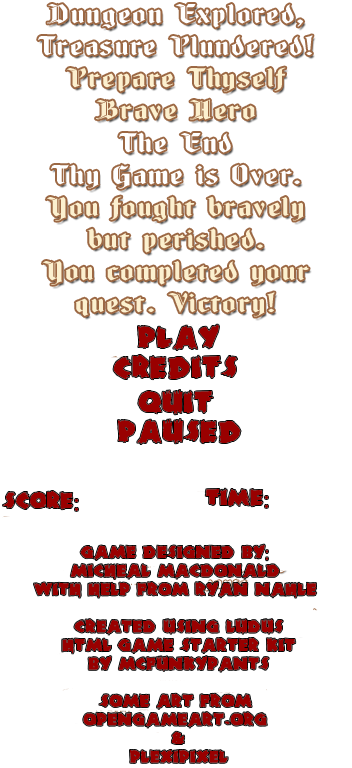
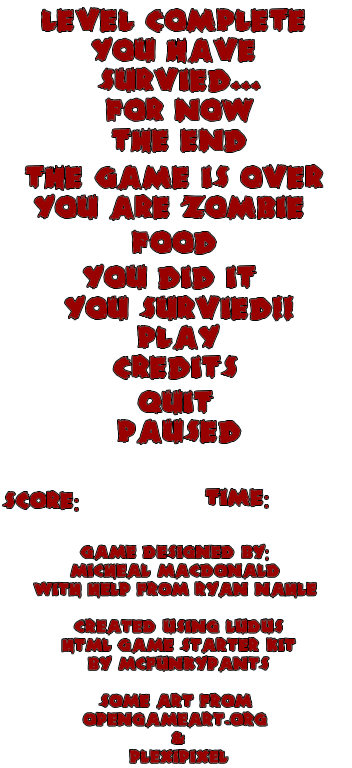
GUI Changes
Changed text and buttons
Buttons for jump and attach have been moved to the screens lower corners

Changed region(s): [[0.0625, 0.0, 0.9375, 0.4375], [0.5938, 0.75, 0.6875, 0.7812]]

diff --git a/game-media/level2.js b/game-media/level2.js
@@ -1,7 +1,7 @@
 var level2 = { "height":32,
  "layers":[
         {
-         "data":[0, 0, 0, 0, 0, 0, 0, 0, 0, 0, 0, 0, 0, 0, 0, 0, 0, 0, 0, 0, 0, 0, 0, 0, 0, 0, 0, 0, 0, 0, 0, 0, 0, 0, 0, 0, 0, 0, 0, 0, 0, 0, 0, 0, 0, 0, 0, 0, 0, 0, 0, 0, 0, 0, 0, 0, 0, 0, 0, 0, 0, 0, 0, 0, 0, 0, 0, 0, 0, 0, 0, 0, 0, 0, 0, 0, 0, 0, 0, 0, 0, 0, 0, 0, 0, 0, 0, 0, 0, 0, 0, 0, 0, 0, 0, 0, 0, 0, 0, 0, 0, 0, 0, 0, 0, 0, 0, 0, 0, 0, 0, 0, 0, 0, 0, 0, 0, 0, 0, 0, 0, 0, 0, 0, 0, 0, 0, 0, 0, 0, 0, 0, 0, 0, 0, 0, 0, 0, 0, 0, 0, 0, 0, 0, 0, 0, 0, 0, 0, 0, 0, 0, 0, 0, 0, 0, 0, 0, 0, 0, 0, 0, 0, 0, 0, 0, 0, 0, 0, 0, 0, 0, 0, 0, 0, 0, 0, 0, 0, 0, 0, 0, 0, 0, 0, 0, 0, 0, 0, 0, 0, 0, 0, 0, 0, 0, 0, 0, 0, 0, 0, 0, 0, 0, 0, 0, 0, 0, 0, 0, 0, 0, 0, 0, 0, 0, 0, 0, 0, 0, 0, 0, 0, 0, 0, 0, 0, 0, 0, 0, 0, 0, 0, 0, 0, 0, 0, 0, 0, 0, 0, 0, 0, 0, 0, 0, 0, 0, 0, 0, 0, 0, 0, 0, 0, 0, 0, 0, 0, 0, 0, 0, 0, 0, 0, 0, 0, 0, 0, 0, 0, 0, 0, 0, 0, 0, 0, 0, 0, 0, 0, 0, 0, 0, 0, 0, 0, 0, 0, 0, 0, 0, 0, 0, 0, 0, 0, 0, 0, 0, 0, 0, 0, 0, 0, 0, 0, 0, 0, 0, 0, 0, 0, 0, 0, 0, 0, 0, 0, 0, 0, 0, 0, 0, 0, 0, 0, 0, 0, 0, 0, 0, 0, 0, 0, 0, 0, 0, 0, 0, 0, 0, 0, 0, 0, 0, 0, 0, 0, 0, 0, 0, 0, 0, 0, 0, 0, 0, 0, 0, 0, 0, 0, 0, 0, 0, 0, 0, 0, 0, 0, 0, 0, 0, 0, 0, 0, 0, 0, 0, 0, 0, 0, 0, 0, 0, 0, 0, 0, 0, 0, 0, 0, 0, 0, 0, 0, 0, 0, 0, 0, 0, 0, 0, 0, 0, 0, 0, 0, 0, 0, 0, 0, 0, 0, 0, 0, 0, 0, 0, 0, 0, 0, 0, 0, 0, 0, 0, 0, 0, 0, 0, 0, 0, 0, 0, 0, 0, 0, 0, 0, 0, 0, 0, 0, 0, 0, 0, 0, 0, 0, 0, 0, 0, 0, 0, 0, 0, 0, 0, 0, 0, 0, 0, 0, 0, 0, 0, 0, 0, 0, 0, 0, 0, 0, 0, 0, 0, 0, 0, 0, 0, 0, 0, 0, 0, 0, 0, 0, 0, 0, 0, 0, 0, 0, 0, 0, 0, 0, 0, 0, 0, 0, 0, 0, 0, 0, 0, 0, 0, 0, 0, 0, 0, 0, 0, 0, 0, 0, 0, 0, 0, 0, 0, 0, 0, 0, 0, 0, 0, 0, 0, 0, 0, 0, 0, 0, 0, 0, 0, 0, 0, 0, 0, 0, 0, 0, 0, 0, 0, 0, 0, 0, 0, 0, 0, 0, 0, 0, 0, 0, 0, 0, 0, 0, 0, 0, 0, 0, 0, 0, 0, 0, 0, 0, 0, 0, 0, 0, 0, 0, 0, 0, 0, 0, 0, 0, 0, 0, 0, 0, 0, 0, 0, 0, 0, 0, 0, 0, 0, 0, 0, 0, 0, 0, 0, 0, 0, 0, 0, 0, 0, 0, 0, 0, 0, 0, 0, 0, 0, 0, 0, 0, 0, 0, 0, 0, 0, 0, 0, 0, 0, 0, 0, 0, 0, 0, 0, 0, 0, 0, 0, 0, 0, 0, 0, 0, 0, 0, 0, 0, 0, 0, 0, 0, 0, 0, 0, 0, 0, 0, 0, 0, 0, 0, 0, 0, 0, 0, 0, 0, 0, 0, 0, 0, 0, 0, 0, 0, 0, 0, 0, 0, 0, 0, 0, 0, 0, 0, 0, 0, 0, 0, 0, 0, 0, 0, 0, 0, 0, 0, 0, 0, 0, 0, 0, 0, 0, 0, 0, 0, 0, 0, 0, 0, 0, 0, 0, 0, 0, 0, 0, 0, 0, 0, 0, 0, 0, 0, 0, 0, 0, 0, 0, 0, 0, 0, 0, 0, 0, 0, 0, 0, 0, 0, 0, 0, 0, 0, 0, 0, 0, 0, 0, 0, 0, 0, 0, 0, 0, 0, 0, 0, 0, 0, 0, 0, 0, 0, 0, 0, 0, 0, 0, 0, 0, 0, 0, 0, 0, 0, 0, 0, 0, 0, 0, 0, 0, 0, 0, 0, 0, 0, 0, 0, 0, 0, 0, 0, 0, 0, 0, 0, 0, 0, 0, 0, 0, 0, 0, 0, 0, 0, 0, 0, 0, 0, 0, 0, 0, 0, 0, 0, 0, 0, 0, 0, 0, 0, 0, 0, 0, 0, 0, 0, 0, 0, 0, 0, 0, 0, 0, 0, 0, 0, 0, 0, 0, 0, 0, 0, 0, 0, 0, 0, 0, 0, 0, 0, 0, 0, 0, 0, 0, 0, 0, 0, 0, 0, 0, 0, 0, 0, 0, 0, 0, 0, 0, 0, 0, 0, 0, 0, 0, 0, 0, 0, 0, 0, 0, 0, 0, 0, 0, 0, 0, 0, 0, 0, 0, 0, 0, 0, 0, 0, 0, 0, 0, 0, 0, 0, 0, 0, 0, 0, 0, 0, 0, 0, 0, 0, 0, 0, 0, 0, 0, 0, 0, 0, 0, 0, 0, 0, 0, 0, 0, 0, 0, 0, 0, 0, 0, 0, 0, 0, 0, 0, 0, 0, 0, 0, 0, 0, 0, 0, 0, 0, 0, 0, 0, 0, 0, 0, 0, 0, 0, 0, 0, 0, 0, 0, 0, 0, 0, 0, 0, 0, 0, 0, 0, 0, 0, 0, 0, 0, 0, 0, 0, 0, 0, 0, 0, 0, 0, 0, 0, 0, 0, 0, 0, 0, 0, 0, 0, 0, 0, 0, 0, 0, 0, 0, 0, 0, 0, 0, 0, 0, 0, 0, 0, 0, 0, 0, 0, 0, 0, 0, 0, 0, 0, 0, 0, 0, 0, 0, 0, 0, 0, 0, 0, 0, 0, 0, 0, 0, 0, 0, 0, 0, 0, 0, 0, 0, 0, 0, 0, 0, 0, 0, 0, 0, 0, 0, 0, 0, 0, 0, 0, 0, 0, 0, 0, 0, 0, 0, 0, 0, 0, 0, 0, 0, 0, 0, 0, 0, 0, 0, 0, 0, 0, 0, 0, 0, 0, 0, 0, 0, 0, 0, 0, 0, 0, 0, 0, 0, 0, 0, 0, 0, 0, 0, 0, 0, 0, 0, 0, 0, 0, 0, 0, 0, 0, 0, 0, 0, 0, 0, 0, 0, 0, 0, 0, 0, 0, 0, 0, 0, 0, 0, 0, 0, 0, 0, 0, 0, 0, 0, 0, 0, 0, 0, 0, 0, 0, 0, 0, 0, 0, 0, 0, 0, 0, 0, 0, 0, 0, 0, 0, 0, 0, 0, 0, 0, 0, 0, 0, 0, 0, 0, 0, 0, 0, 0, 0, 0, 0, 0, 0, 0, 0, 0, 0, 0, 0, 0, 0, 0, 0, 0, 0, 0, 0, 0, 0, 0, 0, 0, 0, 0, 0, 0, 0, 0, 0, 0, 0, 0, 0, 0, 0, 0, 0, 0, 0, 0, 0, 0, 0, 0, 0, 0, 0, 0, 0, 0, 0, 0, 0, 0, 0, 0, 0, 0, 0, 0, 0, 0, 0, 0, 0, 0, 0, 0, 0, 0, 0, 0, 0, 0, 0, 0, 0, 0, 0, 0, 0, 0, 0, 0, 0, 0, 0, 0, 0, 0, 0, 0, 0, 0, 0, 0, 0, 0, 0, 0, 0, 0, 0, 0, 0, 0, 0, 0, 0, 0, 0, 0, 0, 0, 0, 0, 0, 0, 0, 0, 0, 0, 0, 0, 0, 0, 0, 0, 0, 0, 0, 0, 0, 0, 0, 0, 0, 0, 0, 0, 0, 0, 0, 0, 0, 0, 0, 0, 0, 0, 0, 0, 0, 0, 0, 0, 0, 0, 0, 0, 0, 0, 0, 0, 0, 0, 0, 0, 0, 0, 0, 0, 0, 0, 0, 0, 0, 0, 0, 0, 0, 0, 0, 0, 0, 0, 0, 0, 0, 0, 0, 0, 0, 0, 0, 0, 0, 0, 0, 0, 0, 0, 0, 0, 0, 0, 0, 0, 0, 0, 0, 0, 0, 0, 0, 0, 0, 0, 0, 0, 0, 0, 0, 0, 0, 0, 0, 0, 0, 0, 0, 0, 0, 0, 0, 0, 0, 0, 0, 0, 0, 0, 0, 0, 0, 0, 0, 0, 0, 0, 0, 0, 0, 0, 0, 0, 0, 0, 0, 0, 0, 0, 0, 0, 0, 0, 0, 0, 0, 0, 0, 0, 0, 0, 0, 0, 0, 0, 0, 0, 0, 0, 0, 0, 0, 0, 0, 0, 0, 0, 0, 0, 0, 0, 0, 0, 0, 0, 0, 0, 0, 0, 0, 0, 0, 0, 0, 0, 0, 0, 0, 0, 0, 0, 0, 0, 0, 0, 0, 0, 0, 0, 0, 0, 0, 0, 0, 0, 0, 0, 0, 0, 0, 0, 0, 0, 0, 0, 0, 0, 0, 0, 0, 0, 0, 0, 0, 0, 0, 0, 0, 0, 0, 0, 0, 0, 0, 0, 0, 0, 0, 0, 0, 0, 0, 0, 0, 0, 0, 0, 0, 0, 0, 0, 0, 0, 0, 0, 0, 0, 0, 0, 0, 0, 0, 0, 0, 0, 0, 0, 0, 0, 0, 0, 0, 0, 0, 0, 0, 0, 0, 0, 0, 0, 0, 0, 0, 0, 0, 0, 0, 0, 0, 0, 0, 0, 0, 129, 130, 130, 130, 130, 130, 131, 0, 0, 0, 0, 0, 0, 0, 0, 0, 0, 0, 0, 0, 0, 0, 0, 0, 0, 0, 0, 0, 0, 0, 0, 0, 0, 0, 0, 0, 0, 0, 0, 0, 0, 0, 0, 0, 0, 0, 0, 0, 0, 0, 0, 0, 0, 0, 0, 0, 0, 0, 0, 0, 0, 0, 0, 0, 0, 0, 0, 0, 0, 0, 0, 0, 0, 0, 0, 0, 0, 0, 0, 0, 0, 0, 0, 0, 0, 0, 0, 0, 0, 0, 0, 0, 0, 0, 0, 0, 0, 0, 0, 0, 0, 0, 0, 0, 0, 0, 0, 0, 0, 0, 0, 0, 0, 0, 0, 0, 0, 0, 0, 0, 0, 0, 0, 0, 0, 0, 0, 0, 0, 0, 0, 0, 0, 0, 0, 0, 0, 0, 0, 0, 0, 0, 0, 0, 0, 0, 0, 0, 0, 0, 0, 0, 0, 0, 0, 0, 0, 0, 0, 0, 0, 0, 0, 0, 0, 0, 0, 0, 0, 0, 0, 0, 0, 0, 0, 0, 0, 0, 0, 0, 0, 0, 0, 0, 0, 0, 0, 0, 0, 0, 0, 0, 0, 0, 0, 0, 0, 0, 0, 0, 0, 0, 0, 0, 0, 0, 0, 0, 0, 0, 0, 0, 0, 0, 0, 0, 0, 0, 0, 0, 0, 0, 0, 0, 0, 0, 0, 0, 0, 0, 0, 0, 0, 0, 0, 0, 0, 0, 0, 0, 0, 0, 0, 0, 0, 0, 0, 0, 0, 0, 0, 0, 0, 0, 0, 0, 0, 0, 0, 0, 0, 0, 0, 0, 0, 0, 0, 0, 0, 0, 0, 0, 0, 0, 0, 0, 0, 0, 0, 0, 0, 0, 0, 0, 0, 0, 0, 0, 0, 0, 0, 0, 0, 0, 0, 0, 0, 0, 0, 0, 0, 0, 0, 0, 0, 0, 0, 0, 0, 0, 0, 0, 0, 0, 0, 0, 0, 0, 0, 0, 0, 0, 0, 0, 0, 0, 0, 0, 0, 0, 0, 0, 129, 130, 131, 0, 0, 0, 0, 129, 130, 131, 0, 0, 0, 0, 129, 130, 131, 0, 0, 0, 0, 0, 0, 0, 0, 0, 0, 0, 0, 0, 0, 0, 0, 0, 0, 0, 0, 0, 0, 0, 0, 0, 0, 0, 129, 130, 130, 130, 130, 131, 0, 0, 0, 0, 0, 0, 0, 0, 0, 0, 0, 0, 0, 0, 0, 0, 0, 0, 0, 0, 0, 0, 0, 0, 0, 0, 0, 0, 0, 0, 0, 0, 0, 0, 0, 0, 0, 0, 0, 0, 0, 0, 0, 0, 0, 0, 0, 0, 0, 0, 0, 0, 0, 0, 0, 0, 0, 0, 0, 0, 0, 0, 0, 0, 0, 0, 0, 0, 0, 0, 0, 0, 0, 0, 0, 0, 0, 0, 0, 0, 0, 0, 0, 0, 0, 0, 0, 0, 0, 0, 0, 0, 0, 0, 0, 0, 0, 0, 0, 0, 0, 0, 0, 0, 0, 0, 0, 0, 0, 0, 0, 0, 0, 0, 0, 0, 0, 0, 0, 0, 0, 0, 0, 0, 0, 0, 0, 0, 0, 0, 0, 0, 0, 0, 0, 0, 0, 0, 0, 0, 0, 0, 0, 0, 0, 0, 0, 0, 0, 0, 0, 0, 0, 0, 0, 0, 0, 0, 0, 0, 0, 0, 0, 0, 0, 0, 0, 0, 0, 0, 0, 0, 0, 0, 0, 0, 0, 0, 0, 0, 0, 0, 0, 0, 0, 0, 0, 0, 0, 0, 0, 0, 0, 0, 0, 0, 0, 0, 0, 0, 0, 0, 0, 0, 0, 0, 0, 0, 0, 0, 0, 0, 0, 0, 0, 0, 0, 0, 0, 0, 0, 0, 0, 0, 0, 0, 0, 0, 0, 0, 0, 0, 0, 0, 0, 0, 0, 0, 0, 0, 0, 0, 0, 0, 0, 0, 0, 0, 0, 0, 0, 0, 0, 0, 0, 0, 0, 0, 0, 0, 0, 0, 0, 0, 0, 0, 0, 0, 0, 0, 0, 0, 0, 0, 0, 0, 0, 0, 0, 0, 0, 0, 0, 0, 0, 0, 0, 0, 0, 0, 0, 0, 0, 0, 0, 0, 0, 0, 0, 0, 0, 0, 0, 0, 0, 0, 0, 0, 0, 0, 0, 0, 0, 0, 0, 0, 0, 0, 0, 0, 0, 0, 0, 0, 0, 0, 0, 0, 0, 0, 0, 0, 0, 0, 0, 0, 0, 0, 0, 0, 0, 0, 0, 0, 0, 0, 0, 0, 0, 0, 0, 0, 0, 0, 0, 0, 0, 0, 0, 0, 0, 0, 0, 0, 0, 0, 0, 0, 0, 0, 0, 0, 0, 0, 0, 0, 0, 0, 0, 0, 0, 0, 0, 0, 0, 0, 0, 0, 0, 0, 0, 0, 0, 0, 0, 0, 0, 0, 0, 0, 0, 0, 0, 0, 0, 0, 0, 0, 0, 0, 0, 0, 0, 137, 138, 139, 2, 2, 2, 2, 2, 2, 2, 2, 2, 2, 2, 3, 0, 0, 0, 0, 0, 0, 0, 0, 0, 0, 0, 0, 0, 0, 0, 0, 0, 0, 0, 0, 0, 0, 0, 0, 0, 0, 0, 0, 0, 0, 0, 0, 0, 0, 0, 0, 0, 0, 0, 129, 130, 130, 130, 131, 0, 0, 0, 0, 0, 0, 0, 0, 0, 0, 0, 0, 0, 0, 0, 0, 0, 0, 0, 0, 0, 0, 0, 0, 0, 0, 0, 0, 0, 0, 0, 0, 0, 0, 0, 0, 0, 0, 0, 0, 34, 34, 34, 34, 34, 34, 34, 34, 34, 34, 34, 35, 0, 0, 0, 0, 0, 0, 0, 0, 0, 0, 0, 0, 0, 0, 0, 0, 0, 0, 0, 0, 0, 0, 0, 0, 0, 0, 0, 0, 0, 0, 0, 0, 1, 2, 2, 2, 2, 3, 0, 0, 0, 0, 0, 0, 0, 0, 0, 0, 0, 0, 0, 0, 0, 0, 0, 0, 0, 0, 0, 0, 0, 0, 0, 0, 0, 0, 0, 0, 0, 137, 138, 139, 0, 0, 0, 0, 0, 0, 0, 129, 131, 0, 0, 0, 34, 34, 34, 34, 34, 34, 34, 34, 34, 34, 34, 34, 2, 2, 2, 0, 0, 2, 2, 2, 2, 2, 2, 2, 2, 2, 2, 2, 0, 0, 2, 2, 3, 0, 0, 0, 129, 130, 130, 130, 130, 131, 0, 0, 33, 34, 34, 34, 34, 35, 0, 0, 0, 0, 0, 0, 0, 0, 129, 130, 130, 130, 130, 131, 0, 0, 0, 0, 0, 0, 0, 0, 0, 0, 0, 0, 0, 0, 0, 0, 0, 0, 0, 0, 0, 0, 0, 0, 129, 130, 131, 0, 0, 0, 0, 0, 34, 34, 34, 34, 34, 34, 34, 34, 34, 34, 34, 34, 34, 34, 34, 34, 34, 34, 34, 34, 34, 34, 34, 34, 34, 34, 34, 34, 34, 34, 34, 34, 35, 0, 0, 0, 0, 0, 0, 0, 0, 0, 0, 0, 33, 34, 5, 6, 7, 35, 0, 0, 0, 0, 0, 0, 0, 0, 0, 0, 0, 0, 0, 0, 0, 0, 1, 2, 2, 2, 2, 2, 3, 0, 0, 0, 137, 138, 139, 0, 0, 0, 0, 0, 0, 0, 0, 0, 0, 0, 0, 0, 0, 0, 0, 0, 34, 34, 34, 34, 34, 34, 34, 34, 34, 34, 34, 34, 34, 34, 34, 34, 34, 34, 34, 34, 34, 34, 34, 34, 34, 34, 34, 34, 34, 34, 34, 34, 35, 0, 0, 0, 0, 0, 0, 0, 0, 0, 0, 0, 33, 34, 37, 38, 39, 35, 0, 0, 0, 0, 0, 0, 0, 0, 0, 0, 0, 0, 0, 0, 0, 0, 33, 13, 14, 15, 34, 34, 35, 0, 0, 0, 0, 0, 0, 0, 0, 0, 0, 0, 129, 130, 131, 0, 0, 0, 0, 0, 0, 0, 0, 0, 34, 34, 34, 34, 34, 34, 34, 34, 34, 34, 34, 34, 34, 34, 34, 34, 34, 34, 34, 34, 34, 34, 34, 34, 34, 34, 34, 34, 34, 34, 34, 34, 35, 0, 0, 0, 0, 0, 0, 0, 0, 0, 0, 0, 33, 34, 34, 34, 34, 35, 0, 0, 0, 0, 0, 0, 0, 0, 0, 0, 0, 0, 0, 0, 0, 0, 33, 45, 46, 47, 34, 34, 35, 0, 0, 0, 0, 0, 0, 0, 0, 0, 0, 0, 0, 0, 0, 0, 0, 0, 0, 0, 0, 0, 0, 0, 34, 34, 34, 34, 34, 34, 34, 34, 34, 34, 34, 34, 34, 34, 34, 34, 34, 34, 34, 34, 34, 34, 34, 34, 34, 34, 34, 34, 34, 34, 34, 34, 35, 0, 0, 0, 0, 0, 0, 0, 0, 0, 0, 0, 33, 34, 34, 34, 34, 35, 0, 0, 0, 0, 0, 0, 0, 0, 0, 0, 0, 0, 0, 0, 0, 0, 33, 34, 34, 34, 34, 34, 35, 0, 0, 0, 0, 0, 0, 0, 0, 0, 0, 0, 0, 0, 0, 0, 0, 0, 0, 0, 0, 0, 0, 0],
+         "data":[0, 0, 0, 0, 0, 0, 0, 0, 0, 0, 0, 0, 0, 0, 0, 0, 0, 0, 0, 0, 0, 0, 0, 0, 0, 0, 0, 0, 0, 0, 0, 0, 0, 0, 0, 0, 0, 0, 0, 0, 0, 0, 0, 0, 0, 0, 0, 0, 0, 0, 0, 0, 0, 0, 0, 0, 0, 0, 0, 0, 0, 0, 0, 0, 0, 0, 0, 0, 0, 0, 0, 0, 0, 0, 0, 0, 0, 0, 0, 0, 0, 0, 0, 0, 0, 0, 0, 0, 0, 0, 0, 0, 0, 0, 0, 0, 0, 0, 0, 0, 0, 0, 0, 0, 0, 0, 0, 0, 0, 0, 0, 0, 0, 0, 0, 0, 0, 0, 0, 0, 0, 0, 0, 0, 0, 0, 0, 0, 0, 0, 0, 0, 0, 0, 0, 0, 0, 0, 0, 0, 0, 0, 0, 0, 0, 0, 0, 0, 0, 0, 0, 0, 0, 0, 0, 0, 0, 0, 0, 0, 0, 0, 0, 0, 0, 0, 0, 0, 0, 0, 0, 0, 0, 0, 0, 0, 0, 0, 0, 0, 0, 0, 0, 0, 0, 0, 0, 0, 0, 0, 0, 0, 0, 0, 0, 0, 0, 0, 0, 0, 0, 0, 0, 0, 0, 0, 0, 0, 0, 0, 0, 0, 0, 0, 0, 0, 0, 0, 0, 0, 0, 0, 0, 0, 0, 0, 0, 0, 0, 0, 0, 0, 0, 0, 0, 0, 0, 0, 0, 0, 0, 0, 0, 0, 0, 0, 0, 0, 0, 0, 0, 0, 0, 0, 0, 0, 0, 0, 0, 0, 0, 0, 0, 0, 0, 0, 0, 0, 0, 0, 0, 0, 0, 0, 0, 0, 0, 0, 0, 0, 0, 0, 0, 0, 0, 0, 0, 0, 0, 0, 0, 0, 0, 0, 0, 0, 0, 0, 0, 0, 0, 0, 0, 0, 0, 0, 0, 0, 0, 0, 0, 0, 0, 0, 0, 0, 0, 0, 0, 0, 0, 0, 0, 0, 0, 0, 0, 0, 0, 0, 0, 0, 0, 0, 0, 0, 0, 0, 0, 0, 0, 0, 0, 0, 0, 0, 0, 0, 0, 0, 0, 0, 0, 0, 0, 0, 0, 0, 0, 0, 0, 0, 0, 0, 0, 0, 0, 0, 0, 0, 0, 0, 0, 0, 0, 0, 0, 0, 0, 0, 0, 0, 0, 0, 0, 0, 0, 0, 0, 0, 0, 0, 0, 0, 0, 0, 0, 0, 0, 0, 0, 0, 0, 0, 0, 0, 0, 0, 0, 0, 0, 0, 0, 0, 0, 0, 0, 0, 0, 0, 0, 0, 0, 0, 0, 0, 0, 0, 0, 0, 0, 0, 0, 0, 0, 0, 0, 0, 0, 0, 0, 0, 0, 0, 0, 0, 0, 0, 0, 0, 0, 0, 0, 0, 0, 0, 0, 0, 0, 0, 0, 0, 0, 0, 0, 0, 0, 0, 0, 0, 0, 0, 0, 0, 0, 0, 0, 0, 0, 0, 0, 0, 0, 0, 0, 0, 0, 0, 0, 0, 0, 0, 0, 0, 0, 0, 0, 0, 0, 0, 0, 0, 0, 0, 0, 0, 0, 0, 0, 0, 0, 0, 0, 0, 0, 0, 0, 0, 0, 0, 0, 0, 0, 0, 0, 0, 0, 0, 0, 0, 0, 0, 0, 0, 0, 0, 0, 0, 0, 0, 0, 0, 0, 0, 0, 0, 0, 0, 0, 0, 0, 0, 0, 0, 0, 0, 0, 0, 0, 0, 0, 0, 0, 0, 0, 0, 0, 0, 0, 0, 0, 0, 0, 0, 0, 0, 0, 0, 0, 0, 0, 0, 0, 0, 0, 0, 0, 0, 0, 0, 0, 0, 0, 0, 0, 0, 0, 0, 0, 0, 0, 0, 0, 0, 0, 0, 0, 0, 0, 0, 0, 0, 0, 0, 0, 0, 0, 0, 0, 0, 0, 0, 0, 0, 0, 0, 0, 0, 0, 0, 0, 0, 0, 0, 0, 0, 0, 0, 0, 0, 0, 0, 0, 0, 0, 0, 0, 0, 0, 0, 0, 0, 0, 0, 0, 0, 0, 0, 0, 0, 0, 0, 0, 0, 0, 0, 0, 0, 0, 0, 0, 0, 0, 0, 0, 0, 0, 0, 0, 0, 0, 0, 0, 0, 0, 0, 0, 0, 0, 0, 0, 0, 0, 0, 0, 0, 0, 0, 0, 0, 0, 0, 0, 0, 0, 0, 0, 0, 0, 0, 0, 0, 0, 0, 0, 0, 0, 0, 0, 0, 0, 0, 0, 0, 0, 0, 0, 0, 0, 0, 0, 0, 0, 0, 0, 0, 0, 0, 0, 0, 0, 0, 0, 0, 0, 0, 0, 0, 0, 0, 0, 0, 0, 0, 0, 0, 0, 0, 0, 0, 0, 0, 0, 0, 0, 0, 0, 0, 0, 0, 0, 0, 0, 0, 0, 0, 0, 0, 0, 0, 0, 0, 0, 0, 0, 0, 0, 0, 0, 0, 0, 0, 0, 0, 0, 0, 0, 0, 0, 0, 0, 0, 0, 0, 0, 0, 0, 0, 0, 0, 0, 0, 0, 0, 0, 0, 0, 0, 0, 0, 0, 0, 0, 0, 0, 0, 0, 0, 0, 0, 0, 0, 0, 0, 0, 0, 0, 0, 0, 0, 0, 0, 0, 0, 0, 0, 0, 0, 0, 0, 0, 0, 0, 0, 0, 0, 0, 0, 0, 0, 0, 0, 0, 0, 0, 0, 0, 0, 0, 0, 0, 0, 0, 0, 0, 0, 0, 0, 0, 0, 0, 0, 0, 0, 0, 0, 0, 0, 0, 0, 0, 0, 0, 0, 0, 0, 0, 0, 0, 0, 0, 0, 0, 0, 0, 0, 0, 0, 0, 0, 0, 0, 0, 0, 0, 0, 0, 0, 0, 0, 0, 0, 0, 0, 0, 0, 0, 0, 0, 0, 0, 0, 0, 0, 0, 0, 0, 0, 0, 0, 0, 0, 0, 0, 0, 0, 0, 0, 0, 0, 0, 0, 0, 0, 0, 0, 0, 0, 0, 0, 0, 0, 0, 0, 0, 0, 0, 0, 0, 0, 0, 0, 0, 0, 0, 0, 0, 0, 0, 0, 0, 0, 0, 0, 0, 0, 0, 0, 0, 0, 0, 0, 0, 0, 0, 0, 0, 0, 0, 0, 0, 0, 0, 0, 0, 0, 0, 0, 0, 0, 0, 0, 0, 0, 0, 0, 0, 0, 0, 0, 0, 0, 0, 0, 0, 0, 0, 0, 0, 0, 0, 0, 0, 0, 0, 0, 0, 0, 0, 0, 0, 0, 0, 0, 0, 0, 0, 0, 0, 0, 0, 0, 0, 0, 0, 0, 0, 0, 0, 0, 0, 0, 0, 0, 0, 0, 0, 0, 0, 0, 0, 0, 0, 0, 0, 0, 0, 0, 0, 0, 0, 0, 0, 0, 0, 0, 0, 0, 0, 0, 0, 0, 0, 0, 0, 0, 0, 0, 0, 0, 0, 0, 0, 0, 0, 0, 0, 0, 0, 0, 0, 0, 0, 0, 0, 0, 0, 0, 0, 0, 0, 0, 0, 0, 0, 0, 0, 0, 0, 0, 0, 0, 0, 0, 0, 0, 0, 0, 0, 0, 0, 0, 0, 0, 0, 0, 0, 0, 0, 0, 0, 0, 0, 0, 0, 0, 0, 0, 0, 0, 0, 0, 0, 0, 0, 0, 0, 0, 0, 0, 0, 0, 0, 0, 0, 0, 0, 0, 0, 0, 0, 0, 0, 0, 0, 0, 0, 0, 0, 0, 0, 0, 0, 0, 0, 0, 0, 0, 0, 0, 0, 0, 0, 0, 0, 0, 0, 0, 0, 0, 0, 0, 0, 0, 0, 0, 0, 0, 0, 0, 0, 0, 0, 0, 0, 0, 0, 0, 0, 0, 0, 0, 0, 0, 0, 0, 0, 0, 0, 0, 0, 0, 0, 0, 0, 0, 0, 0, 0, 0, 0, 0, 0, 0, 0, 0, 0, 0, 0, 0, 0, 0, 0, 0, 0, 0, 0, 0, 0, 0, 0, 0, 0, 0, 0, 0, 0, 0, 0, 0, 0, 0, 0, 0, 0, 0, 0, 0, 0, 0, 0, 0, 0, 0, 0, 0, 0, 0, 0, 0, 0, 0, 0, 0, 0, 0, 0, 0, 0, 0, 0, 0, 0, 0, 0, 0, 0, 0, 0, 0, 0, 0, 0, 0, 0, 0, 0, 0, 0, 0, 0, 0, 0, 0, 0, 0, 0, 0, 0, 0, 0, 0, 0, 0, 0, 0, 0, 0, 0, 0, 0, 0, 0, 0, 0, 0, 0, 0, 0, 0, 0, 0, 0, 0, 0, 0, 0, 0, 0, 0, 0, 0, 0, 0, 0, 0, 0, 0, 0, 0, 0, 0, 0, 0, 0, 0, 0, 0, 0, 0, 0, 0, 0, 0, 0, 0, 0, 0, 0, 0, 0, 0, 0, 0, 0, 0, 0, 0, 0, 0, 0, 0, 0, 0, 0, 0, 0, 0, 0, 0, 0, 0, 0, 0, 0, 0, 0, 0, 0, 0, 0, 0, 0, 0, 0, 0, 0, 0, 0, 0, 0, 0, 0, 0, 0, 0, 0, 0, 0, 0, 0, 0, 0, 0, 0, 0, 0, 0, 0, 0, 0, 0, 0, 0, 0, 0, 0, 0, 0, 0, 0, 0, 0, 0, 0, 0, 0, 0, 0, 0, 0, 0, 0, 0, 0, 0, 0, 0, 0, 0, 0, 0, 0, 0, 0, 0, 0, 0, 0, 0, 0, 0, 0, 0, 0, 0, 0, 0, 0, 0, 0, 0, 0, 0, 0, 0, 0, 0, 0, 0, 0, 0, 0, 0, 0, 0, 0, 0, 0, 0, 0, 0, 0, 0, 0, 0, 0, 0, 0, 0, 0, 0, 0, 0, 0, 0, 0, 0, 0, 0, 0, 0, 0, 0, 0, 0, 0, 0, 0, 0, 0, 0, 0, 0, 0, 0, 0, 0, 0, 0, 0, 0, 0, 0, 0, 0, 0, 0, 0, 0, 0, 0, 0, 0, 0, 0, 0, 0, 0, 0, 0, 0, 0, 0, 0, 0, 0, 0, 0, 0, 0, 0, 129, 130, 130, 130, 130, 130, 131, 0, 0, 0, 0, 0, 0, 0, 0, 0, 0, 0, 0, 0, 0, 0, 0, 0, 0, 0, 0, 0, 0, 0, 0, 0, 0, 0, 0, 0, 0, 0, 0, 0, 0, 0, 0, 0, 0, 0, 0, 0, 0, 0, 0, 0, 0, 0, 0, 0, 0, 0, 0, 0, 0, 0, 0, 0, 0, 0, 0, 0, 0, 0, 0, 0, 0, 0, 0, 0, 0, 0, 0, 0, 0, 0, 0, 0, 0, 0, 0, 0, 0, 0, 0, 0, 0, 0, 0, 0, 0, 0, 0, 0, 0, 0, 0, 0, 0, 0, 0, 0, 0, 0, 0, 0, 0, 0, 0, 0, 0, 0, 0, 0, 0, 0, 0, 0, 0, 0, 0, 0, 0, 0, 0, 0, 0, 0, 0, 0, 0, 0, 0, 0, 129, 130, 131, 0, 0, 0, 0, 0, 0, 129, 130, 131, 0, 0, 0, 0, 0, 0, 129, 130, 131, 0, 0, 0, 0, 0, 0, 0, 0, 0, 0, 0, 0, 0, 0, 0, 0, 0, 0, 0, 0, 0, 0, 0, 0, 0, 0, 0, 0, 0, 0, 0, 0, 0, 0, 0, 0, 0, 0, 0, 0, 0, 0, 0, 0, 0, 0, 0, 0, 0, 0, 0, 0, 0, 0, 0, 0, 0, 0, 0, 0, 0, 0, 0, 0, 0, 0, 0, 0, 0, 0, 0, 0, 0, 0, 0, 0, 0, 0, 0, 0, 0, 0, 0, 0, 0, 0, 0, 0, 0, 0, 0, 0, 0, 0, 0, 0, 0, 0, 0, 0, 0, 0, 0, 0, 0, 0, 0, 0, 0, 0, 0, 0, 0, 0, 0, 0, 0, 0, 0, 129, 130, 130, 130, 130, 131, 0, 0, 0, 0, 0, 0, 0, 0, 0, 0, 0, 0, 0, 0, 0, 0, 0, 0, 0, 0, 0, 0, 0, 0, 0, 0, 0, 0, 0, 0, 0, 0, 0, 0, 0, 0, 0, 0, 0, 0, 0, 0, 0, 0, 0, 0, 0, 0, 0, 0, 0, 0, 0, 0, 0, 0, 0, 0, 0, 0, 0, 0, 0, 0, 0, 0, 0, 0, 0, 0, 0, 0, 0, 0, 0, 0, 0, 0, 0, 0, 0, 0, 0, 0, 0, 0, 0, 0, 0, 0, 0, 0, 0, 0, 0, 0, 0, 0, 0, 0, 0, 0, 0, 0, 0, 0, 0, 0, 0, 0, 0, 0, 0, 0, 0, 0, 0, 0, 0, 0, 0, 0, 0, 0, 0, 0, 0, 0, 0, 0, 0, 0, 0, 0, 0, 0, 0, 0, 0, 0, 0, 0, 0, 0, 0, 0, 0, 0, 0, 0, 0, 0, 0, 0, 0, 0, 0, 0, 0, 0, 0, 0, 0, 0, 0, 0, 0, 0, 0, 0, 0, 0, 0, 0, 0, 0, 0, 0, 0, 0, 0, 0, 0, 0, 0, 0, 0, 0, 0, 0, 0, 0, 0, 0, 0, 0, 0, 0, 0, 0, 0, 0, 0, 0, 0, 0, 0, 0, 0, 0, 0, 0, 0, 0, 0, 0, 0, 0, 0, 0, 0, 0, 0, 0, 0, 0, 0, 0, 0, 0, 0, 0, 0, 0, 0, 0, 0, 0, 0, 0, 0, 0, 0, 0, 0, 0, 0, 0, 0, 0, 0, 0, 0, 0, 0, 0, 0, 0, 0, 0, 0, 0, 0, 0, 0, 0, 0, 0, 0, 0, 0, 0, 0, 0, 0, 0, 0, 0, 0, 0, 0, 0, 0, 0, 0, 0, 0, 0, 0, 0, 0, 0, 0, 0, 0, 0, 0, 0, 0, 0, 0, 0, 0, 0, 0, 0, 0, 0, 0, 0, 0, 0, 0, 0, 0, 0, 0, 0, 0, 0, 0, 0, 0, 0, 0, 0, 0, 0, 0, 0, 0, 0, 0, 0, 0, 0, 0, 0, 0, 0, 0, 0, 0, 0, 0, 0, 0, 0, 0, 0, 0, 0, 0, 0, 0, 0, 0, 0, 0, 0, 0, 0, 0, 0, 0, 0, 0, 0, 0, 0, 0, 0, 0, 0, 0, 0, 0, 0, 0, 0, 0, 0, 0, 0, 0, 0, 0, 0, 0, 0, 0, 0, 0, 0, 0, 0, 0, 0, 0, 0, 0, 0, 0, 0, 0, 0, 0, 0, 0, 0, 0, 0, 0, 0, 0, 0, 0, 0, 0, 0, 0, 0, 0, 0, 0, 0, 0, 0, 0, 0, 0, 0, 0, 0, 0, 0, 0, 0, 0, 0, 0, 0, 0, 0, 0, 0, 0, 0, 0, 0, 0, 0, 0, 0, 0, 0, 0, 0, 0, 0, 0, 0, 0, 0, 0, 0, 0, 0, 129, 130, 131, 0, 0, 0, 0, 0, 0, 0, 0, 0, 0, 0, 0, 0, 0, 0, 0, 0, 0, 0, 0, 0, 0, 0, 0, 0, 0, 0, 0, 0, 0, 0, 0, 0, 0, 0, 0, 0, 0, 137, 138, 139, 2, 2, 2, 2, 2, 2, 2, 2, 2, 2, 2, 3, 0, 0, 0, 0, 0, 0, 0, 0, 0, 0, 0, 0, 0, 0, 0, 0, 0, 0, 0, 0, 0, 0, 0, 0, 0, 0, 0, 0, 0, 0, 0, 0, 0, 0, 0, 0, 0, 0, 0, 0, 0, 0, 0, 0, 0, 0, 0, 0, 0, 0, 0, 0, 0, 0, 0, 0, 0, 0, 0, 0, 0, 0, 0, 0, 0, 0, 0, 0, 0, 0, 0, 0, 0, 0, 0, 0, 0, 0, 0, 0, 0, 0, 0, 0, 34, 34, 34, 34, 34, 34, 34, 34, 34, 34, 34, 35, 0, 0, 0, 0, 0, 0, 0, 0, 0, 0, 0, 0, 0, 0, 0, 0, 0, 0, 0, 0, 0, 0, 0, 0, 0, 0, 0, 0, 0, 0, 0, 0, 1, 2, 2, 2, 2, 3, 0, 0, 0, 0, 0, 0, 0, 0, 0, 0, 0, 0, 0, 0, 0, 0, 0, 0, 0, 0, 0, 0, 0, 0, 0, 0, 0, 0, 0, 0, 0, 137, 138, 139, 0, 0, 0, 0, 0, 0, 0, 129, 131, 0, 0, 0, 34, 34, 34, 34, 34, 34, 34, 34, 34, 34, 34, 34, 2, 2, 2, 0, 0, 2, 2, 2, 2, 2, 2, 2, 2, 2, 2, 2, 0, 0, 2, 2, 3, 0, 0, 0, 129, 130, 130, 130, 130, 131, 0, 0, 33, 34, 34, 34, 34, 35, 0, 0, 0, 0, 0, 0, 0, 0, 129, 130, 130, 130, 130, 131, 0, 0, 0, 0, 0, 0, 0, 0, 0, 0, 0, 0, 0, 0, 0, 0, 0, 0, 0, 0, 0, 0, 0, 0, 129, 130, 131, 0, 0, 0, 0, 0, 34, 34, 34, 34, 34, 34, 34, 34, 34, 34, 34, 34, 34, 34, 34, 34, 34, 34, 34, 34, 34, 34, 34, 34, 34, 34, 34, 34, 34, 34, 34, 34, 35, 0, 0, 0, 0, 0, 0, 0, 0, 0, 0, 0, 33, 34, 5, 6, 7, 35, 0, 0, 0, 0, 0, 0, 0, 0, 0, 0, 0, 0, 0, 0, 0, 0, 1, 2, 2, 2, 2, 2, 3, 0, 0, 0, 137, 138, 139, 0, 0, 0, 0, 0, 0, 0, 0, 0, 0, 0, 0, 0, 0, 0, 0, 0, 34, 34, 34, 34, 34, 34, 34, 34, 34, 34, 34, 34, 34, 34, 34, 34, 34, 34, 34, 34, 34, 34, 34, 34, 34, 34, 34, 34, 34, 34, 34, 34, 35, 0, 0, 0, 0, 0, 0, 0, 0, 0, 0, 0, 33, 34, 37, 38, 39, 35, 0, 0, 0, 0, 0, 0, 0, 0, 0, 0, 0, 0, 0, 0, 0, 0, 33, 13, 14, 15, 34, 34, 35, 0, 0, 0, 0, 0, 0, 0, 0, 0, 0, 0, 129, 130, 131, 0, 0, 0, 0, 0, 0, 0, 0, 0, 34, 34, 34, 34, 34, 34, 34, 34, 34, 34, 34, 34, 34, 34, 34, 34, 34, 34, 34, 34, 34, 34, 34, 34, 34, 34, 34, 34, 34, 34, 34, 34, 35, 0, 0, 0, 0, 0, 0, 0, 0, 0, 0, 0, 33, 34, 34, 34, 34, 35, 0, 0, 0, 0, 0, 0, 0, 0, 0, 0, 0, 0, 0, 0, 0, 0, 33, 45, 46, 47, 34, 34, 35, 0, 0, 0, 0, 0, 0, 0, 0, 0, 0, 0, 0, 0, 0, 0, 0, 0, 0, 0, 0, 0, 0, 0, 34, 34, 34, 34, 34, 34, 34, 34, 34, 34, 34, 34, 34, 34, 34, 34, 34, 34, 34, 34, 34, 34, 34, 34, 34, 34, 34, 34, 34, 34, 34, 34, 35, 0, 0, 0, 0, 0, 0, 0, 0, 0, 0, 0, 33, 34, 34, 34, 34, 35, 0, 0, 0, 0, 0, 0, 0, 0, 0, 0, 0, 0, 0, 0, 0, 0, 33, 34, 34, 34, 34, 34, 35, 0, 0, 0, 0, 0, 0, 0, 0, 0, 0, 0, 0, 0, 0, 0, 0, 0, 0, 0, 0, 0, 0, 0],
          "height":32,
          "name":"Walls",
          "opacity":1,
@@ -23,7 +23,7 @@
          "y":0
         }, 
         {
-         "data":[0, 0, 0, 0, 0, 0, 0, 0, 0, 0, 0, 0, 0, 0, 0, 0, 0, 0, 0, 0, 0, 0, 0, 0, 0, 0, 0, 0, 0, 0, 0, 0, 0, 0, 0, 0, 0, 0, 0, 0, 0, 0, 0, 0, 0, 0, 0, 0, 0, 0, 0, 0, 0, 0, 0, 0, 0, 0, 0, 0, 0, 0, 0, 0, 0, 0, 0, 0, 0, 0, 0, 0, 0, 0, 0, 0, 0, 0, 0, 0, 0, 0, 0, 0, 0, 0, 0, 0, 0, 0, 0, 0, 0, 0, 0, 0, 0, 0, 0, 0, 0, 0, 0, 0, 0, 0, 0, 0, 0, 0, 0, 0, 0, 0, 0, 0, 0, 0, 0, 0, 0, 0, 0, 0, 0, 0, 0, 0, 0, 0, 0, 0, 0, 0, 0, 0, 0, 0, 0, 0, 0, 0, 0, 0, 0, 0, 0, 0, 0, 0, 0, 0, 0, 0, 0, 0, 0, 0, 0, 0, 0, 0, 0, 0, 0, 0, 0, 0, 0, 0, 0, 0, 0, 0, 0, 0, 0, 0, 0, 0, 0, 0, 0, 0, 0, 0, 0, 0, 0, 0, 0, 0, 0, 0, 0, 0, 0, 0, 0, 0, 0, 0, 0, 0, 0, 0, 0, 0, 0, 0, 0, 0, 0, 0, 0, 0, 0, 0, 0, 0, 0, 0, 0, 0, 0, 0, 0, 0, 0, 0, 0, 0, 0, 0, 0, 0, 0, 0, 0, 0, 0, 0, 0, 0, 0, 0, 0, 0, 0, 0, 0, 0, 0, 0, 0, 0, 0, 0, 0, 0, 0, 0, 0, 0, 0, 0, 0, 0, 0, 0, 0, 0, 0, 0, 0, 0, 0, 0, 0, 0, 0, 0, 0, 0, 0, 0, 0, 0, 0, 0, 0, 0, 0, 0, 0, 0, 0, 0, 0, 0, 0, 0, 0, 0, 0, 0, 0, 0, 0, 0, 0, 0, 0, 0, 0, 0, 0, 0, 0, 0, 0, 0, 0, 0, 0, 0, 0, 0, 0, 0, 0, 0, 0, 0, 0, 0, 0, 0, 0, 0, 0, 0, 0, 0, 0, 0, 0, 0, 0, 0, 0, 0, 0, 0, 0, 0, 0, 0, 0, 0, 0, 0, 0, 0, 0, 0, 0, 0, 0, 0, 0, 0, 0, 0, 0, 0, 0, 0, 0, 0, 0, 0, 0, 0, 0, 0, 0, 0, 0, 0, 0, 0, 0, 0, 0, 0, 0, 0, 0, 0, 0, 0, 0, 0, 0, 0, 0, 0, 0, 0, 0, 0, 0, 0, 0, 0, 0, 0, 0, 0, 0, 0, 0, 0, 0, 0, 0, 0, 0, 0, 0, 0, 0, 0, 0, 0, 0, 0, 0, 0, 0, 0, 0, 0, 0, 0, 0, 0, 0, 0, 0, 0, 0, 0, 0, 0, 0, 0, 0, 0, 0, 0, 0, 0, 0, 0, 0, 0, 0, 0, 0, 0, 0, 0, 0, 0, 0, 0, 0, 0, 0, 0, 0, 0, 0, 0, 0, 0, 0, 0, 0, 0, 0, 0, 0, 0, 0, 0, 0, 0, 0, 0, 0, 0, 0, 0, 0, 0, 0, 0, 0, 0, 0, 0, 0, 0, 0, 0, 0, 0, 0, 0, 0, 0, 0, 0, 0, 0, 0, 0, 0, 0, 0, 0, 0, 0, 0, 0, 0, 0, 0, 0, 0, 0, 0, 0, 0, 0, 0, 0, 0, 0, 0, 0, 0, 0, 0, 0, 0, 0, 0, 0, 0, 0, 0, 0, 0, 0, 0, 0, 0, 0, 0, 0, 0, 0, 0, 0, 0, 0, 0, 0, 0, 0, 0, 0, 0, 0, 0, 0, 0, 0, 0, 0, 0, 0, 0, 0, 0, 0, 0, 0, 0, 0, 0, 0, 0, 0, 0, 0, 0, 0, 0, 0, 0, 0, 0, 0, 0, 0, 0, 0, 0, 0, 0, 0, 0, 0, 0, 0, 0, 0, 0, 0, 0, 0, 0, 0, 0, 0, 0, 0, 0, 0, 0, 0, 0, 0, 0, 0, 0, 0, 0, 0, 0, 0, 0, 0, 0, 0, 0, 0, 0, 0, 0, 0, 0, 0, 0, 0, 0, 0, 0, 0, 0, 0, 0, 0, 0, 0, 0, 0, 0, 0, 0, 0, 0, 0, 0, 0, 0, 0, 0, 0, 0, 0, 0, 0, 0, 0, 0, 0, 0, 0, 0, 0, 0, 0, 0, 0, 0, 0, 0, 0, 0, 0, 0, 0, 0, 0, 0, 0, 0, 0, 0, 0, 0, 0, 0, 0, 0, 0, 0, 0, 0, 0, 0, 0, 0, 0, 0, 0, 0, 0, 0, 0, 0, 0, 0, 0, 0, 0, 0, 0, 0, 0, 0, 0, 0, 0, 0, 0, 0, 0, 0, 0, 0, 0, 0, 0, 0, 0, 0, 0, 0, 0, 0, 0, 0, 0, 0, 0, 0, 0, 0, 0, 0, 0, 0, 0, 0, 0, 0, 0, 0, 0, 0, 0, 0, 0, 0, 0, 0, 0, 0, 0, 0, 0, 0, 0, 0, 0, 0, 0, 0, 0, 0, 0, 0, 0, 0, 0, 0, 0, 0, 0, 0, 0, 0, 0, 0, 0, 0, 0, 0, 0, 0, 0, 0, 0, 0, 0, 0, 0, 0, 0, 0, 0, 0, 0, 0, 0, 0, 0, 0, 0, 0, 0, 0, 0, 0, 0, 0, 0, 0, 0, 0, 0, 0, 0, 0, 0, 0, 0, 0, 0, 0, 0, 0, 0, 0, 0, 0, 0, 0, 0, 0, 0, 0, 0, 0, 0, 0, 0, 0, 0, 0, 0, 0, 0, 0, 0, 0, 0, 0, 0, 0, 0, 0, 0, 0, 0, 0, 0, 0, 0, 0, 0, 0, 0, 0, 0, 0, 0, 0, 0, 0, 0, 0, 0, 0, 0, 0, 0, 0, 0, 0, 0, 0, 0, 0, 0, 0, 0, 0, 0, 0, 0, 0, 0, 0, 0, 0, 0, 0, 0, 0, 0, 0, 0, 0, 0, 0, 0, 0, 0, 0, 0, 0, 0, 0, 0, 0, 0, 0, 0, 0, 0, 0, 0, 0, 0, 0, 0, 0, 0, 0, 0, 0, 0, 0, 0, 0, 0, 0, 0, 0, 0, 0, 0, 0, 0, 0, 0, 0, 0, 0, 0, 0, 0, 0, 0, 0, 0, 0, 0, 0, 0, 0, 0, 0, 0, 0, 0, 0, 0, 0, 0, 0, 0, 0, 0, 0, 0, 0, 0, 0, 0, 0, 0, 0, 0, 0, 0, 0, 0, 0, 0, 0, 0, 0, 0, 0, 0, 0, 0, 0, 0, 0, 0, 0, 0, 0, 0, 0, 0, 0, 0, 0, 0, 0, 0, 0, 0, 0, 0, 0, 0, 0, 0, 0, 0, 0, 0, 0, 0, 0, 0, 0, 0, 0, 0, 0, 0, 0, 0, 0, 0, 0, 0, 0, 0, 0, 0, 0, 0, 0, 0, 0, 0, 0, 0, 0, 0, 0, 0, 0, 0, 0, 0, 0, 0, 0, 0, 0, 0, 0, 0, 0, 0, 0, 0, 0, 0, 0, 0, 0, 0, 0, 0, 0, 0, 0, 0, 0, 0, 0, 0, 0, 0, 0, 0, 0, 0, 0, 0, 0, 0, 0, 0, 0, 0, 0, 0, 0, 0, 0, 0, 0, 0, 0, 0, 0, 0, 0, 0, 0, 0, 0, 0, 0, 0, 0, 0, 0, 0, 0, 0, 0, 0, 0, 0, 0, 0, 0, 0, 0, 0, 0, 0, 0, 0, 0, 0, 0, 0, 0, 0, 0, 0, 0, 0, 0, 0, 0, 0, 0, 0, 0, 0, 0, 0, 0, 0, 0, 0, 0, 0, 0, 0, 0, 0, 0, 0, 0, 0, 0, 0, 0, 0, 0, 0, 0, 0, 0, 0, 0, 0, 0, 0, 0, 0, 0, 0, 0, 0, 0, 0, 0, 0, 0, 0, 0, 0, 0, 0, 0, 0, 0, 0, 0, 0, 0, 0, 0, 0, 0, 0, 0, 0, 0, 0, 0, 0, 0, 0, 0, 0, 0, 0, 0, 0, 0, 0, 0, 0, 0, 0, 0, 0, 0, 0, 0, 0, 0, 0, 0, 0, 0, 0, 0, 0, 0, 0, 0, 0, 0, 0, 0, 0, 0, 0, 0, 0, 0, 0, 0, 0, 0, 0, 0, 0, 0, 0, 0, 0, 0, 0, 0, 0, 0, 0, 0, 0, 0, 0, 0, 0, 0, 0, 0, 0, 0, 0, 0, 0, 0, 0, 0, 0, 0, 0, 0, 0, 0, 0, 0, 0, 0, 0, 0, 0, 0, 0, 0, 0, 0, 0, 0, 0, 0, 0, 0, 0, 0, 0, 0, 0, 0, 0, 0, 0, 0, 0, 0, 0, 0, 0, 0, 0, 0, 0, 0, 0, 0, 0, 0, 0, 0, 0, 0, 0, 0, 0, 0, 0, 0, 0, 0, 0, 0, 0, 0, 0, 0, 0, 0, 0, 0, 0, 0, 0, 0, 0, 0, 0, 0, 0, 0, 0, 0, 0, 0, 0, 0, 0, 0, 0, 0, 0, 0, 0, 0, 0, 0, 0, 0, 0, 0, 0, 0, 0, 0, 0, 0, 0, 0, 0, 0, 0, 0, 0, 0, 0, 0, 0, 0, 0, 0, 0, 0, 0, 0, 0, 0, 0, 0, 0, 0, 0, 0, 0, 0, 0, 0, 0, 0, 0, 0, 0, 0, 0, 0, 0, 0, 0, 0, 0, 0, 0, 0, 0, 358, 0, 0, 0, 0, 0, 0, 0, 0, 0, 0, 0, 0, 0, 0, 0, 0, 0, 0, 0, 0, 0, 0, 0, 0, 0, 0, 0, 0, 0, 0, 0, 0, 0, 0, 0, 0, 0, 0, 0, 0, 0, 0, 0, 0, 0, 0, 0, 0, 0, 0, 0, 0, 0, 0, 0, 0, 0, 0, 0, 0, 0, 0, 0, 0, 0, 0, 0, 0, 0, 0, 0, 0, 0, 0, 0, 0, 0, 0, 0, 0, 0, 0, 0, 0, 0, 0, 0, 0, 0, 0, 0, 0, 0, 0, 0, 0, 0, 0, 0, 0, 0, 0, 0, 0, 0, 0, 0, 0, 0, 0, 0, 0, 0, 0, 0, 0, 0, 0, 0, 0, 0, 0, 0, 0, 0, 0, 0, 0, 0, 0, 0, 0, 0, 0, 0, 0, 0, 0, 0, 0, 0, 0, 0, 0, 0, 0, 0, 0, 0, 0, 0, 0, 0, 0, 0, 0, 0, 0, 0, 0, 0, 0, 0, 0, 0, 0, 0, 0, 0, 0, 0, 0, 0, 0, 0, 0, 0, 0, 0, 0, 0, 0, 0, 0, 0, 0, 0, 0, 0, 0, 0, 0, 0, 0, 0, 0, 0, 0, 0, 0, 0, 0, 0, 0, 0, 0, 0, 0, 0, 0, 0, 0, 0, 0, 0, 0, 0, 0, 0, 0, 0, 0, 0, 0, 0, 0, 0, 0, 0, 0, 0, 0, 0, 0, 0, 0, 0, 0, 0, 0, 0, 0, 0, 0, 0, 0, 0, 0, 0, 0, 0, 0, 0, 0, 0, 0, 0, 0, 0, 0, 0, 0, 0, 0, 0, 0, 0, 0, 0, 0, 0, 0, 0, 0, 0, 0, 0, 0, 0, 0, 0, 0, 0, 0, 0, 0, 0, 0, 0, 0, 0, 0, 0, 0, 0, 0, 0, 0, 0, 0, 0, 0, 0, 0, 0, 0, 0, 0, 0, 0, 0, 0, 0, 0, 0, 0, 0, 0, 0, 0, 0, 0, 0, 0, 0, 0, 0, 0, 0, 0, 0, 0, 0, 0, 0, 0, 0, 0, 0, 0, 0, 0, 0, 0, 0, 0, 0, 0, 0, 0, 0, 0, 0, 0, 0, 0, 0, 0, 0, 0, 0, 0, 0, 0, 0, 0, 0, 0, 0, 0, 0, 0, 0, 0, 0, 0, 0, 0, 0, 0, 0, 0, 0, 0, 0, 0, 0, 0, 0, 0, 0, 0, 0, 0, 0, 0, 0, 0, 0, 0, 0, 0, 0, 0, 0, 0, 0, 0, 0, 0, 0, 0, 0, 0, 0, 0, 0, 0, 0, 0, 0, 0, 0, 0, 0, 0, 0, 0, 0, 0, 0, 0, 0, 0, 0, 0, 0, 0, 0, 0, 0, 0, 0, 0, 0, 0, 0, 0, 0, 0, 0, 0, 0, 0, 0, 0, 0, 0, 0, 0, 0, 0, 0, 0, 0, 0, 0, 0, 0, 0, 0, 0, 0, 0, 0, 0, 0, 0, 0, 0, 0, 0, 0, 0, 0, 0, 0, 0, 0, 0, 0, 0, 0, 0, 0, 0, 0, 0, 0, 0, 0, 0, 0, 0, 0, 0, 0, 108, 0, 0, 0, 0, 0, 0, 0, 0, 0, 0, 0, 0, 0, 0, 0, 0, 0, 0, 0, 0, 0, 0, 0, 0, 0, 0, 0, 0, 0, 0, 0, 0, 0, 0, 0, 0, 0, 0, 0, 0, 0, 0, 0, 0, 0, 0, 0, 0, 0, 0, 0, 0, 0, 0, 0, 0, 0, 0, 0, 0, 0, 0, 0, 0, 0, 0, 0, 0, 0, 0, 0, 0, 0, 0, 0, 0, 0, 0, 0, 0, 0, 0, 0, 0, 0, 0, 0, 0, 0, 0, 0, 0, 0, 0, 0, 0, 0, 0, 0, 0, 0, 0, 0, 0, 0, 0, 0, 0, 0, 0, 0, 0, 0, 0, 0, 0, 0, 0, 0, 0, 0, 0, 0, 0, 0, 0, 0, 0, 0, 0, 0, 0, 0, 0, 0, 0, 0, 0, 0, 0, 0, 0, 0, 0, 0, 0, 0, 0, 0, 0, 0, 0, 0, 0, 0, 0, 0, 0, 0, 0, 0, 0, 0, 0, 0, 0, 0, 0, 0, 0, 0, 0, 0, 0, 0, 0, 0, 0, 0, 0, 0, 0, 0, 0, 0, 0, 0, 0, 0, 0, 0, 0, 0, 0, 0, 0, 0, 0, 0, 0, 0, 0, 0, 0, 0, 0, 0, 0, 0, 0, 0, 0, 0, 0, 0, 0, 0, 0, 0, 0, 0, 0, 0, 0, 0, 0, 0, 0, 0, 0, 0, 0, 0, 0, 0, 0, 0, 0, 0, 0, 0, 0, 0, 0, 0, 0, 0, 0, 0, 0, 0, 0, 0, 0, 0, 0, 0, 0, 0, 0, 0, 0, 0, 0, 0, 0, 0, 0, 0, 0, 0, 0, 0, 0, 0, 0, 0, 0, 0, 0, 335, 0, 0, 0, 0, 357, 0, 0, 424, 0, 333, 333, 333, 333, 333, 0, 0, 0, 0, 0, 0, 0, 0, 0, 0, 0, 0, 0, 0, 0, 0, 0, 0, 0, 0, 0, 0, 0, 0, 0, 0, 0, 0, 0, 0, 0, 0, 0, 389, 390, 0, 0, 0, 0, 0, 362, 0, 367, 0, 0, 0, 0, 0, 0, 0, 0, 0, 0, 0, 0, 0, 0, 0, 0, 0, 0, 0, 0, 0, 0, 0, 0, 0, 0, 0, 0, 0, 0, 0, 0, 0, 0, 0, 0, 0, 0, 0, 0, 0, 0, 0, 0, 0, 0, 0, 0, 0, 0, 0, 0, 0, 0, 0, 0, 0, 0, 0, 0, 0, 0, 0, 0, 0, 0, 0, 0, 0, 0, 0, 0, 0, 0, 0, 0, 0, 0, 0, 0, 0, 0, 0, 0, 0, 0, 421, 422, 0, 0, 0, 0, 0, 0, 0, 0, 0, 0, 0, 0, 0, 0, 0, 0, 0, 0, 0, 0, 0, 0, 0, 0, 0, 0, 0, 0, 0, 0, 0, 0, 0, 0, 333, 333, 333, 0, 0, 0, 0, 0, 0, 0, 0, 0, 0, 0, 0, 0, 0, 0, 0, 0, 0, 0, 0, 0, 0, 0, 0, 0, 362, 0, 0, 0, 0, 365, 0, 0, 364, 0, 0, 0, 0, 362, 0, 0, 0, 0, 0, 0, 0, 0, 0, 360, 0, 0, 0, 0, 0, 0, 0, 0, 0, 0, 0, 0, 0, 0, 0, 0, 0, 0, 0, 0, 0, 0, 363, 0, 366, 0, 0, 0, 0, 0, 0, 0, 0, 0, 0, 0, 0, 0, 0, 0, 0, 0, 0, 0, 0, 0, 0, 0, 0, 0, 0, 0, 0, 0, 0, 0, 0, 0, 0, 0, 0, 0, 0, 0, 0, 0, 0, 0, 0, 0, 0, 0, 0, 0, 0, 0, 0, 0, 0, 0, 0, 0, 0, 0, 0, 0, 0, 0, 0, 0, 0, 0, 0, 0, 0, 0, 0, 0, 0, 0, 0, 0, 0, 0, 0, 0, 0, 0, 0, 0, 0, 0, 0, 0, 0, 0, 0, 0, 0, 0, 0, 0, 0, 0, 0, 333, 333, 333, 333, 0, 335, 0, 0, 0, 0, 0, 0, 0, 0, 0, 0, 0, 0, 0, 0, 0, 0, 0, 0, 0, 0, 0, 0, 0, 0, 0, 0, 0, 0, 0, 0, 0, 0, 0, 0, 0, 0, 0, 0, 0, 0, 0, 0, 0, 0, 0, 0, 0, 0, 0, 0, 0, 0, 0, 0, 0, 0, 0, 0, 0, 0, 0, 0, 0, 0, 0, 0, 0, 0, 0, 0, 0, 0, 0, 0, 0, 0, 0, 0, 0, 0, 0, 0, 0, 0, 0, 0, 0, 0, 0, 0, 0, 0, 0, 0, 0, 0, 0, 0, 0, 0, 0, 0, 0, 0, 0, 0, 0, 0, 360, 0, 424, 0, 0, 0, 0, 0, 0, 0, 0, 0, 0, 0, 0, 0, 0, 0, 0, 0, 0, 0, 0, 0, 0, 0, 0, 0, 0, 0, 0, 0, 0, 0, 0, 0, 0, 0, 0, 0, 0, 0, 0, 0, 0, 0, 0, 0, 0, 0, 0, 0, 0, 0, 0, 0, 0, 0, 0, 0, 0, 0, 0, 0, 0, 0, 0, 0, 0, 0, 0, 0, 0, 0, 0, 0, 0, 0, 0, 0, 0, 0, 0, 0, 0, 0, 0, 0, 0, 0, 0, 0, 0, 0, 0, 0, 0, 0, 0, 0, 0, 0, 0, 0, 0, 0, 0, 0, 0, 0, 0, 0, 0, 0, 0, 0, 0, 0, 0, 0, 0, 0, 0, 0, 0, 0, 0, 0, 0, 0, 0, 0, 0, 0, 0, 0, 0, 0, 0, 0, 0, 0, 0, 0, 0, 0, 0, 0, 0, 0, 0, 0, 0, 0, 0, 0, 0, 0, 0, 0, 0, 0, 0, 0, 0, 0, 0, 0, 0, 0, 0, 0, 0, 0, 0, 0, 0, 0, 0, 0, 0, 0, 0, 0, 0, 0, 0, 0, 0, 0, 0, 0, 0, 0, 0, 0, 0, 0, 0, 0, 0, 0, 0, 0, 0, 0, 0, 0, 0, 0, 0, 0, 0, 0, 0, 0, 0, 0, 0, 0, 0, 0, 0, 0, 0, 0, 0, 0, 0, 0, 0, 0, 0, 0, 0, 0, 0, 0, 0, 0, 0, 0, 0, 0, 0, 0, 0, 0, 0, 0, 0, 0, 0, 0, 0, 0, 0, 0, 0, 0, 0, 0, 0, 0, 0, 0, 0, 0, 0, 0, 0, 0, 0, 0, 0, 0, 0, 0, 0, 0, 0, 0, 0, 0, 0, 0, 0, 0, 0, 0, 0, 0, 0, 0, 0, 0, 0, 0, 0, 0],
+         "data":[0, 0, 0, 0, 0, 0, 0, 0, 0, 0, 0, 0, 0, 0, 0, 0, 0, 0, 0, 0, 0, 0, 0, 0, 0, 0, 0, 0, 0, 0, 0, 0, 0, 0, 0, 0, 0, 0, 0, 0, 0, 0, 0, 0, 0, 0, 0, 0, 0, 0, 0, 0, 0, 0, 0, 0, 0, 0, 0, 0, 0, 0, 0, 0, 0, 0, 0, 0, 0, 0, 0, 0, 0, 0, 0, 0, 0, 0, 0, 0, 0, 0, 0, 0, 0, 0, 0, 0, 0, 0, 0, 0, 0, 0, 0, 0, 0, 0, 0, 0, 0, 0, 0, 0, 0, 0, 0, 0, 0, 0, 0, 0, 0, 0, 0, 0, 0, 0, 0, 0, 0, 0, 0, 0, 0, 0, 0, 0, 0, 0, 0, 0, 0, 0, 0, 0, 0, 0, 0, 0, 0, 0, 0, 0, 0, 0, 0, 0, 0, 0, 0, 0, 0, 0, 0, 0, 0, 0, 0, 0, 0, 0, 0, 0, 0, 0, 0, 0, 0, 0, 0, 0, 0, 0, 0, 0, 0, 0, 0, 0, 0, 0, 0, 0, 0, 0, 0, 0, 0, 0, 0, 0, 0, 0, 0, 0, 0, 0, 0, 0, 0, 0, 0, 0, 0, 0, 0, 0, 0, 0, 0, 0, 0, 0, 0, 0, 0, 0, 0, 0, 0, 0, 0, 0, 0, 0, 0, 0, 0, 0, 0, 0, 0, 0, 0, 0, 0, 0, 0, 0, 0, 0, 0, 0, 0, 0, 0, 0, 0, 0, 0, 0, 0, 0, 0, 0, 0, 0, 0, 0, 0, 0, 0, 0, 0, 0, 0, 0, 0, 0, 0, 0, 0, 0, 0, 0, 0, 0, 0, 0, 0, 0, 0, 0, 0, 0, 0, 0, 0, 0, 0, 0, 0, 0, 0, 0, 0, 0, 0, 0, 0, 0, 0, 0, 0, 0, 0, 0, 0, 0, 0, 0, 0, 0, 0, 0, 0, 0, 0, 0, 0, 0, 0, 0, 0, 0, 0, 0, 0, 0, 0, 0, 0, 0, 0, 0, 0, 0, 0, 0, 0, 0, 0, 0, 0, 0, 0, 0, 0, 0, 0, 0, 0, 0, 0, 0, 0, 0, 0, 0, 0, 0, 0, 0, 0, 0, 0, 0, 0, 0, 0, 0, 0, 0, 0, 0, 0, 0, 0, 0, 0, 0, 0, 0, 0, 0, 0, 0, 0, 0, 0, 0, 0, 0, 0, 0, 0, 0, 0, 0, 0, 0, 0, 0, 0, 0, 0, 0, 0, 0, 0, 0, 0, 0, 0, 0, 0, 0, 0, 0, 0, 0, 0, 0, 0, 0, 0, 0, 0, 0, 0, 0, 0, 0, 0, 0, 0, 0, 0, 0, 0, 0, 0, 0, 0, 0, 0, 0, 0, 0, 0, 0, 0, 0, 0, 0, 0, 0, 0, 0, 0, 0, 0, 0, 0, 0, 0, 0, 0, 0, 0, 0, 0, 0, 0, 0, 0, 0, 0, 0, 0, 0, 0, 0, 0, 0, 0, 0, 0, 0, 0, 0, 0, 0, 0, 0, 0, 0, 0, 0, 0, 0, 0, 0, 0, 0, 0, 0, 0, 0, 0, 0, 0, 0, 0, 0, 0, 0, 0, 0, 0, 0, 0, 0, 0, 0, 0, 0, 0, 0, 0, 0, 0, 0, 0, 0, 0, 0, 0, 0, 0, 0, 0, 0, 0, 0, 0, 0, 0, 0, 0, 0, 0, 0, 0, 0, 0, 0, 0, 0, 0, 0, 0, 0, 0, 0, 0, 0, 0, 0, 0, 0, 0, 0, 0, 0, 0, 0, 0, 0, 0, 0, 0, 0, 0, 0, 0, 0, 0, 0, 0, 0, 0, 0, 0, 0, 0, 0, 0, 0, 0, 0, 0, 0, 0, 0, 0, 0, 0, 0, 0, 0, 0, 0, 0, 0, 0, 0, 0, 0, 0, 0, 0, 0, 0, 0, 0, 0, 0, 0, 0, 0, 0, 0, 0, 0, 0, 0, 0, 0, 0, 0, 0, 0, 0, 0, 0, 0, 0, 0, 0, 0, 0, 0, 0, 0, 0, 0, 0, 0, 0, 0, 0, 0, 0, 0, 0, 0, 0, 0, 0, 0, 0, 0, 0, 0, 0, 0, 0, 0, 0, 0, 0, 0, 0, 0, 0, 0, 0, 0, 0, 0, 0, 0, 0, 0, 0, 0, 0, 0, 0, 0, 0, 0, 0, 0, 0, 0, 0, 0, 0, 0, 0, 0, 0, 0, 0, 0, 0, 0, 0, 0, 0, 0, 0, 0, 0, 0, 0, 0, 0, 0, 0, 0, 0, 0, 0, 0, 0, 0, 0, 0, 0, 0, 0, 0, 0, 0, 0, 0, 0, 0, 0, 0, 0, 0, 0, 0, 0, 0, 0, 0, 0, 0, 0, 0, 0, 0, 0, 0, 0, 0, 0, 0, 0, 0, 0, 0, 0, 0, 0, 0, 0, 0, 0, 0, 0, 0, 0, 0, 0, 0, 0, 0, 0, 0, 0, 0, 0, 0, 0, 0, 0, 0, 0, 0, 0, 0, 0, 0, 0, 0, 0, 0, 0, 0, 0, 0, 0, 0, 0, 0, 0, 0, 0, 0, 0, 0, 0, 0, 0, 0, 0, 0, 0, 0, 0, 0, 0, 0, 0, 0, 0, 0, 0, 0, 0, 0, 0, 0, 0, 0, 0, 0, 0, 0, 0, 0, 0, 0, 0, 0, 0, 0, 0, 0, 0, 0, 0, 0, 0, 0, 0, 0, 0, 0, 0, 0, 0, 0, 0, 0, 0, 0, 0, 0, 0, 0, 0, 0, 0, 0, 0, 0, 0, 0, 0, 0, 0, 0, 0, 0, 0, 0, 0, 0, 0, 0, 0, 0, 0, 0, 0, 0, 0, 0, 0, 0, 0, 0, 0, 0, 0, 0, 0, 0, 0, 0, 0, 0, 0, 0, 0, 0, 0, 0, 0, 0, 0, 0, 0, 0, 0, 0, 0, 0, 0, 0, 0, 0, 0, 0, 0, 0, 0, 0, 0, 0, 0, 0, 0, 0, 0, 0, 0, 0, 0, 0, 0, 0, 0, 0, 0, 0, 0, 0, 0, 0, 0, 0, 0, 0, 0, 0, 0, 0, 0, 0, 0, 0, 0, 0, 0, 0, 0, 0, 0, 0, 0, 0, 0, 0, 0, 0, 0, 0, 0, 0, 0, 0, 0, 0, 0, 0, 0, 0, 0, 0, 0, 0, 0, 0, 0, 0, 0, 0, 0, 0, 0, 0, 0, 0, 0, 0, 0, 0, 0, 0, 0, 0, 0, 0, 0, 0, 0, 0, 0, 0, 0, 0, 0, 0, 0, 0, 0, 0, 0, 0, 0, 0, 0, 0, 0, 0, 0, 0, 0, 0, 0, 0, 0, 0, 0, 0, 0, 0, 0, 0, 0, 0, 0, 0, 0, 0, 0, 0, 0, 0, 0, 0, 0, 0, 0, 0, 0, 0, 0, 0, 0, 0, 0, 0, 0, 0, 0, 0, 0, 0, 0, 0, 0, 0, 0, 0, 0, 0, 0, 0, 0, 0, 0, 0, 0, 0, 0, 0, 0, 0, 0, 0, 0, 0, 0, 0, 0, 0, 0, 0, 0, 0, 0, 0, 0, 0, 0, 0, 0, 0, 0, 0, 0, 0, 0, 0, 0, 0, 0, 0, 0, 0, 0, 0, 0, 0, 0, 0, 0, 0, 0, 0, 0, 0, 0, 0, 0, 0, 0, 0, 0, 0, 0, 0, 0, 0, 0, 0, 0, 0, 0, 0, 0, 0, 0, 0, 0, 0, 0, 0, 0, 0, 0, 0, 0, 0, 0, 0, 0, 0, 0, 0, 0, 0, 0, 0, 0, 0, 0, 0, 0, 0, 0, 0, 0, 0, 0, 0, 0, 0, 0, 0, 0, 0, 0, 0, 0, 0, 0, 0, 0, 0, 0, 0, 0, 0, 0, 0, 0, 0, 0, 0, 0, 0, 0, 0, 0, 0, 0, 0, 0, 0, 0, 0, 0, 0, 0, 0, 0, 0, 0, 0, 0, 0, 0, 0, 0, 0, 0, 0, 0, 0, 0, 0, 0, 0, 0, 0, 0, 0, 0, 0, 0, 0, 0, 0, 0, 0, 0, 0, 0, 0, 0, 0, 0, 0, 0, 0, 0, 0, 0, 0, 0, 0, 0, 0, 0, 0, 0, 0, 0, 0, 0, 0, 0, 0, 0, 0, 0, 0, 0, 0, 0, 0, 0, 0, 0, 0, 0, 0, 0, 0, 0, 0, 0, 0, 0, 0, 0, 0, 0, 0, 0, 0, 0, 0, 0, 0, 0, 0, 0, 0, 0, 0, 0, 0, 0, 0, 0, 0, 0, 0, 0, 0, 0, 0, 0, 0, 0, 0, 0, 0, 0, 0, 0, 0, 0, 0, 0, 0, 0, 0, 0, 0, 0, 0, 0, 0, 0, 0, 0, 0, 0, 0, 0, 0, 0, 0, 0, 0, 0, 0, 0, 0, 389, 390, 0, 0, 0, 0, 0, 0, 0, 0, 0, 0, 0, 0, 0, 0, 0, 0, 0, 0, 0, 0, 0, 0, 0, 0, 0, 0, 0, 0, 0, 0, 0, 0, 0, 0, 0, 0, 0, 0, 0, 0, 0, 0, 0, 0, 0, 0, 0, 0, 0, 0, 0, 0, 0, 0, 0, 0, 0, 0, 0, 0, 0, 0, 0, 0, 0, 0, 0, 0, 0, 0, 0, 0, 0, 0, 0, 0, 0, 0, 0, 0, 0, 0, 0, 0, 0, 0, 0, 0, 0, 0, 0, 0, 0, 0, 421, 422, 0, 0, 358, 0, 0, 0, 0, 0, 0, 0, 0, 0, 0, 0, 0, 0, 0, 0, 0, 0, 0, 0, 0, 0, 0, 0, 0, 0, 0, 0, 0, 0, 0, 0, 0, 0, 0, 0, 0, 0, 0, 0, 0, 0, 0, 0, 0, 0, 0, 0, 0, 0, 0, 0, 0, 0, 0, 0, 0, 0, 0, 0, 0, 0, 0, 0, 0, 0, 0, 0, 0, 0, 0, 0, 0, 0, 0, 0, 0, 0, 0, 0, 0, 0, 0, 0, 0, 0, 0, 0, 0, 0, 0, 0, 0, 0, 0, 0, 0, 0, 0, 0, 0, 0, 0, 0, 0, 0, 0, 0, 0, 0, 0, 0, 0, 0, 0, 0, 0, 0, 0, 0, 0, 0, 0, 0, 0, 0, 0, 0, 0, 0, 0, 0, 0, 0, 0, 0, 0, 0, 0, 0, 0, 0, 0, 0, 0, 0, 0, 0, 0, 0, 0, 0, 0, 0, 0, 0, 0, 0, 0, 0, 0, 0, 0, 0, 0, 0, 0, 0, 0, 0, 0, 0, 0, 0, 0, 0, 0, 0, 0, 0, 0, 0, 295, 296, 0, 0, 0, 0, 0, 0, 0, 0, 0, 0, 0, 0, 0, 0, 0, 0, 0, 0, 0, 0, 0, 0, 0, 0, 0, 0, 0, 0, 0, 0, 0, 0, 0, 0, 0, 0, 0, 0, 0, 0, 0, 0, 0, 0, 0, 0, 0, 0, 0, 0, 0, 0, 0, 0, 0, 0, 0, 0, 0, 0, 0, 0, 0, 0, 0, 0, 0, 0, 0, 0, 0, 0, 0, 0, 0, 0, 0, 0, 0, 0, 0, 0, 0, 0, 0, 0, 0, 0, 0, 0, 0, 0, 366, 0, 327, 328, 0, 0, 0, 0, 0, 0, 0, 0, 0, 0, 0, 0, 0, 0, 0, 0, 0, 0, 0, 0, 0, 0, 0, 0, 0, 0, 0, 0, 0, 0, 0, 0, 0, 0, 0, 0, 0, 0, 0, 0, 0, 0, 0, 0, 0, 0, 0, 0, 0, 0, 0, 0, 0, 0, 0, 0, 0, 0, 0, 0, 0, 0, 0, 0, 0, 0, 0, 0, 0, 0, 0, 0, 0, 0, 0, 0, 0, 0, 0, 0, 0, 0, 0, 0, 0, 0, 0, 0, 0, 0, 0, 0, 0, 0, 0, 0, 0, 0, 0, 0, 0, 0, 0, 0, 0, 0, 0, 0, 0, 0, 0, 0, 0, 0, 0, 0, 0, 0, 0, 0, 0, 0, 0, 0, 0, 0, 0, 0, 0, 0, 0, 0, 0, 0, 0, 0, 0, 0, 0, 0, 0, 0, 0, 0, 0, 0, 0, 0, 0, 0, 0, 0, 0, 0, 0, 0, 0, 0, 0, 0, 0, 0, 0, 0, 0, 0, 0, 0, 0, 0, 0, 0, 0, 0, 0, 0, 0, 0, 0, 0, 0, 0, 0, 0, 0, 0, 0, 0, 0, 0, 0, 0, 0, 0, 0, 0, 0, 0, 0, 0, 0, 0, 0, 0, 0, 0, 0, 0, 0, 0, 0, 0, 0, 0, 0, 0, 0, 0, 0, 0, 0, 0, 0, 0, 0, 0, 0, 0, 108, 0, 0, 0, 0, 0, 0, 0, 0, 0, 0, 0, 0, 0, 0, 0, 0, 0, 0, 0, 0, 0, 0, 0, 0, 0, 0, 0, 0, 0, 0, 0, 0, 0, 0, 0, 0, 0, 0, 0, 0, 0, 0, 0, 0, 0, 0, 0, 0, 0, 0, 0, 0, 0, 0, 0, 0, 0, 0, 0, 0, 0, 0, 0, 0, 0, 0, 0, 0, 0, 0, 0, 0, 0, 0, 0, 0, 0, 0, 0, 0, 0, 0, 0, 0, 0, 0, 0, 0, 0, 0, 0, 0, 0, 0, 0, 0, 0, 0, 0, 0, 0, 0, 0, 0, 0, 0, 0, 0, 0, 0, 0, 0, 0, 0, 0, 0, 0, 0, 0, 0, 0, 0, 0, 0, 0, 0, 0, 0, 0, 0, 0, 0, 0, 0, 0, 0, 0, 0, 0, 0, 0, 0, 0, 0, 0, 0, 0, 0, 0, 0, 0, 0, 0, 0, 0, 0, 0, 0, 0, 0, 0, 0, 0, 0, 0, 0, 0, 0, 0, 0, 0, 0, 0, 0, 0, 0, 0, 0, 0, 0, 0, 0, 0, 0, 0, 0, 0, 0, 0, 0, 0, 0, 0, 0, 0, 0, 0, 0, 0, 0, 0, 0, 0, 0, 0, 0, 0, 0, 0, 0, 0, 0, 0, 0, 0, 0, 0, 0, 0, 0, 0, 0, 0, 0, 0, 0, 0, 0, 0, 0, 0, 0, 0, 0, 0, 0, 0, 0, 0, 362, 0, 0, 0, 0, 0, 0, 0, 0, 0, 0, 0, 0, 0, 0, 0, 0, 0, 0, 0, 0, 0, 0, 0, 0, 0, 0, 0, 0, 0, 0, 0, 0, 0, 0, 0, 0, 0, 0, 0, 0, 335, 0, 0, 0, 0, 357, 0, 0, 424, 0, 333, 333, 333, 333, 333, 0, 0, 0, 0, 0, 0, 0, 0, 0, 0, 0, 0, 0, 0, 0, 0, 0, 0, 0, 0, 0, 0, 0, 0, 0, 0, 0, 0, 0, 0, 0, 0, 0, 389, 390, 0, 0, 0, 0, 0, 0, 0, 0, 0, 0, 0, 0, 0, 0, 0, 0, 0, 0, 0, 0, 0, 0, 0, 0, 0, 0, 0, 0, 0, 0, 0, 0, 0, 0, 0, 0, 0, 0, 0, 0, 0, 0, 0, 0, 0, 0, 0, 0, 0, 0, 0, 0, 0, 0, 0, 0, 0, 0, 0, 0, 0, 0, 0, 0, 0, 0, 0, 0, 0, 0, 0, 0, 0, 0, 0, 0, 0, 0, 0, 0, 0, 0, 0, 0, 0, 0, 0, 0, 0, 0, 0, 0, 0, 0, 421, 422, 0, 0, 0, 0, 0, 0, 0, 0, 0, 0, 0, 0, 0, 0, 0, 0, 0, 0, 0, 0, 0, 0, 0, 0, 0, 0, 0, 0, 0, 0, 0, 0, 0, 0, 333, 333, 333, 0, 0, 0, 0, 0, 0, 0, 0, 0, 0, 0, 0, 0, 0, 0, 0, 0, 0, 0, 0, 0, 0, 0, 0, 0, 362, 0, 0, 0, 0, 365, 0, 0, 364, 0, 0, 0, 0, 362, 0, 0, 0, 0, 0, 0, 0, 0, 0, 360, 0, 0, 0, 0, 0, 0, 0, 0, 0, 0, 0, 0, 0, 0, 0, 0, 0, 0, 0, 0, 0, 0, 363, 0, 366, 0, 0, 0, 0, 0, 0, 0, 0, 0, 0, 0, 0, 0, 0, 0, 0, 0, 0, 0, 0, 0, 0, 0, 0, 0, 0, 0, 0, 0, 0, 0, 0, 0, 0, 0, 0, 0, 0, 0, 0, 0, 0, 0, 0, 0, 0, 0, 0, 0, 0, 0, 0, 0, 0, 0, 0, 0, 0, 0, 0, 0, 0, 0, 0, 0, 0, 0, 0, 0, 0, 0, 0, 0, 0, 0, 0, 0, 0, 0, 0, 0, 0, 0, 0, 0, 0, 0, 0, 0, 0, 0, 0, 0, 0, 0, 0, 0, 0, 0, 0, 333, 333, 333, 333, 0, 335, 0, 0, 0, 0, 0, 0, 0, 0, 0, 0, 0, 0, 0, 0, 0, 0, 0, 0, 0, 0, 0, 0, 0, 0, 0, 0, 0, 0, 0, 0, 0, 0, 0, 0, 0, 0, 0, 0, 0, 0, 0, 0, 0, 0, 0, 0, 0, 0, 0, 0, 0, 0, 0, 0, 0, 0, 0, 0, 0, 0, 0, 0, 0, 0, 0, 0, 0, 0, 0, 0, 0, 0, 0, 0, 0, 0, 0, 0, 0, 0, 0, 0, 0, 0, 0, 0, 0, 0, 0, 0, 0, 0, 0, 0, 0, 0, 0, 0, 0, 0, 0, 0, 0, 0, 0, 0, 0, 0, 360, 0, 424, 0, 0, 0, 0, 0, 0, 0, 0, 0, 0, 0, 0, 0, 0, 0, 0, 0, 0, 0, 0, 0, 0, 0, 0, 0, 0, 0, 0, 0, 0, 0, 0, 0, 0, 0, 0, 0, 0, 0, 0, 0, 0, 0, 0, 0, 0, 0, 0, 0, 0, 0, 0, 0, 0, 0, 0, 0, 0, 0, 0, 0, 0, 0, 0, 0, 0, 0, 0, 0, 0, 0, 0, 0, 0, 0, 0, 0, 0, 0, 0, 0, 0, 0, 0, 0, 0, 0, 0, 0, 0, 0, 0, 0, 0, 0, 0, 0, 0, 0, 0, 0, 0, 0, 0, 0, 0, 0, 0, 0, 0, 0, 0, 0, 0, 0, 0, 0, 0, 0, 0, 0, 0, 0, 0, 0, 0, 0, 0, 0, 0, 0, 0, 0, 0, 0, 0, 0, 0, 0, 0, 0, 0, 0, 0, 0, 0, 0, 0, 0, 0, 0, 0, 0, 0, 0, 0, 0, 0, 0, 0, 0, 0, 0, 0, 0, 0, 0, 0, 0, 0, 0, 0, 0, 0, 0, 0, 0, 0, 0, 0, 0, 0, 0, 0, 0, 0, 0, 0, 0, 0, 0, 0, 0, 0, 0, 0, 0, 0, 0, 0, 0, 0, 0, 0, 0, 0, 0, 0, 0, 0, 0, 0, 0, 0, 0, 0, 0, 0, 0, 0, 0, 0, 0, 0, 0, 0, 0, 0, 0, 0, 0, 0, 0, 0, 0, 0, 0, 0, 0, 0, 0, 0, 0, 0, 0, 0, 0, 0, 0, 0, 0, 0, 0, 0, 0, 0, 0, 0, 0, 0, 0, 0, 0, 0, 0, 0, 0, 0, 0, 0, 0, 0, 0, 0, 0, 0, 0, 0, 0, 0, 0, 0, 0, 0, 0, 0, 0, 0, 0, 0, 0, 0, 0, 0, 0, 0, 0],
          "height":32,
          "name":"NoCollide",
          "opacity":1,

diff --git a/js/ludus.js b/js/ludus.js
@@ -977,7 +977,7 @@ THE SOFTWARE.
 
         if (TimeGUI) TimeGUI.draw();
         if (ScoreGUI) ScoreGUI.draw();
-        if (CountGUI) CountGUI.draw();
+        //if (CountGUI) CountGUI.draw();
 
         // flashing info at level start and near time out!
         if ((pickups_remaining == pickups_total) || (pickups_remaining < 6) || (time_remaining < 11)) {
@@ -1955,9 +1955,9 @@ THE SOFTWARE.
     */
     function initMSTouchEvents() {
 
-        lbutt = document.getElementById('buttonleft');
+       // lbutt = document.getElementById('buttonleft');
         dbutt = document.getElementById('buttondown');
-        rbutt = document.getElementById('buttonright');
+        //rbutt = document.getElementById('buttonright');
         ubutt = document.getElementById('buttonup');
         pbutt = document.getElementById('buttonpause');
 
@@ -1966,49 +1966,49 @@ THE SOFTWARE.
 
             if (window.navigator.msMaxTouchPoints) { log('MS touches (x' + window.navigator.msMaxTouchPoints + ' points max) are available.'); }
 
-            if (lbutt) lbutt.addEventListener("MSPointerDown", touchButtonLeft, false);
-            if (rbutt) rbutt.addEventListener("MSPointerDown", touchButtonRight, false);
+         //   if (lbutt) lbutt.addEventListener("MSPointerDown", touchButtonLeft, false);
+         //   if (rbutt) rbutt.addEventListener("MSPointerDown", touchButtonRight, false);
             if (dbutt) dbutt.addEventListener("MSPointerDown", touchButtonDown, false);
             if (ubutt) ubutt.addEventListener("MSPointerDown", touchButtonUp, false);
             if (pbutt) pbutt.addEventListener("MSPointerDown", touchButtonPause, false);
 
             // MSPointerUp works great for mice and touches that don't leave the screen
-            if (lbutt) lbutt.addEventListener("MSPointerUp", untouchButtonLeft, false);
-            if (rbutt) rbutt.addEventListener("MSPointerUp", untouchButtonRight, false);
+         //   if (lbutt) lbutt.addEventListener("MSPointerUp", untouchButtonLeft, false);
+         //   if (rbutt) rbutt.addEventListener("MSPointerUp", untouchButtonRight, false);
             if (dbutt) dbutt.addEventListener("MSPointerUp", untouchButtonDown, false);
             if (ubutt) ubutt.addEventListener("MSPointerUp", untouchButtonUp, false);
             if (pbutt) pbutt.addEventListener("MSPointerUp", untouchButtonPause, false);
 
             // MSPointerOut is useful to avoid MSPointerUp not firing if you drag a finger offscreen
-            if (lbutt) lbutt.addEventListener("MSPointerOut", untouchButtonLeft, false);
-            if (rbutt) rbutt.addEventListener("MSPointerOut", untouchButtonRight, false);
+         //   if (lbutt) lbutt.addEventListener("MSPointerOut", untouchButtonLeft, false);
+         //   if (rbutt) rbutt.addEventListener("MSPointerOut", untouchButtonRight, false);
             if (dbutt) dbutt.addEventListener("MSPointerOut", untouchButtonDown, false);
             if (ubutt) ubutt.addEventListener("MSPointerOut", untouchButtonUp, false);
             if (pbutt) pbutt.addEventListener("MSPointerOut", untouchButtonPause, false);
         }
         else {
             // standard touch events for browser/ios/non IE
-            if (lbutt) lbutt.addEventListener("touchstart", touchButtonLeft, false);
-            if (rbutt) rbutt.addEventListener("touchstart", touchButtonRight, false);
+         //   if (lbutt) lbutt.addEventListener("touchstart", touchButtonLeft, false);
+         //   if (rbutt) rbutt.addEventListener("touchstart", touchButtonRight, false);
             if (dbutt) dbutt.addEventListener("touchstart", touchButtonDown, false);
             if (ubutt) ubutt.addEventListener("touchstart", touchButtonUp, false);
             if (pbutt) pbutt.addEventListener("touchstart", touchButtonPause, false);
 
-            if (lbutt) lbutt.addEventListener("touchend", untouchButtonLeft, false);
-            if (rbutt) rbutt.addEventListener("touchend", untouchButtonRight, false);
+          //  if (lbutt) lbutt.addEventListener("touchend", untouchButtonLeft, false);
+          //  if (rbutt) rbutt.addEventListener("touchend", untouchButtonRight, false);
             if (dbutt) dbutt.addEventListener("touchend", untouchButtonDown, false);
             if (ubutt) ubutt.addEventListener("touchend", untouchButtonUp, false);
             if (pbutt) pbutt.addEventListener("touchend", untouchButtonPause, false);
 
             // alow mouse events for debugging
-            if (lbutt) lbutt.addEventListener("mousedown", touchButtonLeft, false);
-            if (rbutt) rbutt.addEventListener("mousedown", touchButtonRight, false);
+           // if (lbutt) lbutt.addEventListener("mousedown", touchButtonLeft, false);
+          //  if (rbutt) rbutt.addEventListener("mousedown", touchButtonRight, false);
             if (dbutt) dbutt.addEventListener("mousedown", touchButtonDown, false);
             if (ubutt) ubutt.addEventListener("mousedown", touchButtonUp, false);
             if (pbutt) pbutt.addEventListener("mousedown", touchButtonPause, false);
 
-            if (lbutt) lbutt.addEventListener("mouseup", untouchButtonLeft, false);
-            if (rbutt) rbutt.addEventListener("mouseup", untouchButtonRight, false);
+           // if (lbutt) lbutt.addEventListener("mouseup", untouchButtonLeft, false);
+           // if (rbutt) rbutt.addEventListener("mouseup", untouchButtonRight, false);
             if (dbutt) dbutt.addEventListener("mouseup", untouchButtonDown, false);
             if (ubutt) ubutt.addEventListener("mouseup", untouchButtonUp, false);
             if (pbutt) pbutt.addEventListener("mouseup", untouchButtonPause, false);

diff --git a/app-css/default.css b/app-css/default.css
@@ -38,7 +38,7 @@ body {
     -ms-high-contrast-adjust: none;
 }
 
-#buttonleft {
+#buttonup {
     display: none;
     position: absolute;
     bottom: 20px;
@@ -48,23 +48,12 @@ body {
     display: block;
     outline: none;
     border: none;
-    background-image: url(../game-media/button-left.png);
+    background-image: url(../game-media/button-up.png);
     -ms-high-contrast-adjust: none;
 }
 
-#buttonright {
-    display: none;
-    position: absolute;
-    bottom: 20px;
-    left: 100px;
-    width: 80px;
-    height: 80px;
-    display: block;
-    outline: none;
-    border: none;
-    background-image: url(../game-media/button-right.png);
-    -ms-high-contrast-adjust: none;
-}
+
+
 
 #buttonpause {
     display: none;
@@ -81,21 +70,9 @@ body {
     -ms-high-contrast-adjust: none;
 }
 
-#buttondown {
-    display: none;
-    position: absolute;
-    bottom: 20px;
-    right: 100px;
-    width: 80px;
-    height: 80px;
-    display: block;
-    outline: none;
-    border: none;
-    background-image: url(../game-media/button-down.png);
-    -ms-high-contrast-adjust: none;
-}
 
-#buttonup {
+
+#buttondown {
     display: none;
     position: absolute;
     bottom: 20px;
@@ -105,7 +82,7 @@ body {
     display: block;
     outline: none;
     border: none;
-    background-image: url(../game-media/button-up.png);
+    background-image: url(../game-media/button-down.png);
     -ms-high-contrast-adjust: none;
 }
 
